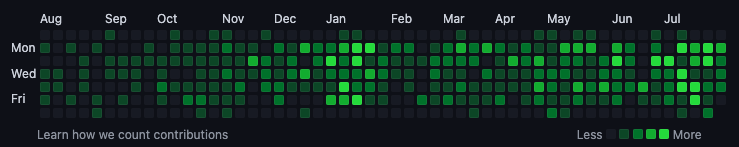
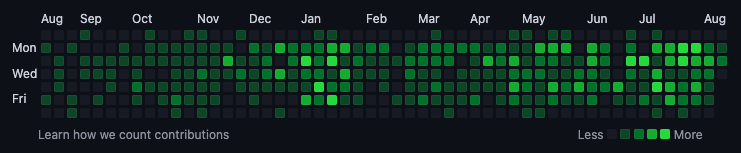
aug contributions

diff --git a/src/components/GitHubContribution.jsx b/src/components/GitHubContribution.jsx
@@ -3,7 +3,7 @@ import React from "react";
 const GitHubContribution = () => {
   return (
     <div className="w3-row w3-padding-32">
-      <p>1732 Total GitHub Contributions</p>
+      <p>1867 Total GitHub Contributions</p>
       <a
         target="_blank"
         rel="noopener noreferrer"
